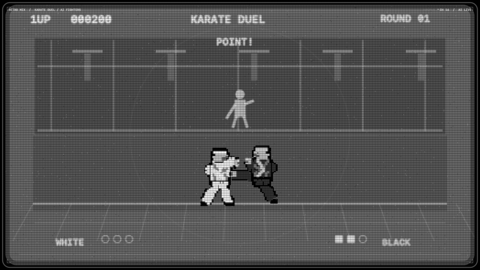
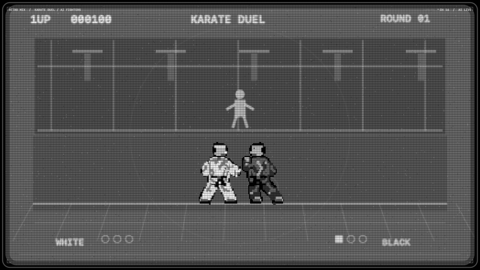
Update Karate Duel for version 1.9.3

diff --git a/README.md b/README.md
@@ -24,7 +24,7 @@ The image shows an already unlocked JMR license.
 
 ## Download and install
 
-Download the ZIP from [version 1.9.1](https://github.com/mikaelmoran/retro-mix-arcade-downloads/releases/tag/v1.9.1), expand it, and move
+Download the ZIP from [version 1.9.3](https://github.com/mikaelmoran/retro-mix-arcade-downloads/releases/tag/v1.9.3), expand it, and move
 **Retro Mix Arcade.app** to Applications. Open the app, choose a game, and
 click **Save selection**. In **System Settings → Wallpaper → Screen Saver**,
 choose **Retro Mix Arcade**.
@@ -77,7 +77,7 @@ Security → Open Anyway** as described in [Apple's instructions](https://suppor
   Donkey Kong, and Qix. Their AI pilots intercept aliens over a scrolling world, jump and climb
   around barrels that roll downhill, and draw lines to claim territory while avoiding hazards. Each has four optional
   game effects alongside the shared CRT controls.
-- Karate Duel features two AI fighters with detailed pixel-art sprites, animated punches, kicks, blocks,
+- Karate Duel features two AI fighters with detailed pixel-art sprites, animated punches, spinning and low kicks, blocks,
   scoring rounds, and a referee. It draws inspiration from Karate Champ.
 - Tank Duel's dark field, bright walls, small rotating tanks, and simple score
   display take cues from the original arcade game.

diff --git a/RELEASE_NOTES.md b/RELEASE_NOTES.md
@@ -1,5 +1,5 @@
-# Retro Mix Arcade 1.9.1
+# Retro Mix Arcade 1.9.3
 
-- Replaced Karate Duel fighters with detailed, original monochrome pixel-art sprites.
-- Added distinct walking, blocking, strike, kick, wind-up and hit-reaction poses.
-- Matched the reach of attacks to the new sprites.
+- Redesigned Karate Duel fighters with more natural proportions and detailed monochrome pixel art.
+- Added intermediate strike and recovery frames and AI spinning roundhouse and low sweeping kicks.
+- Adjusted hit range and impact position to match the new attacks.
